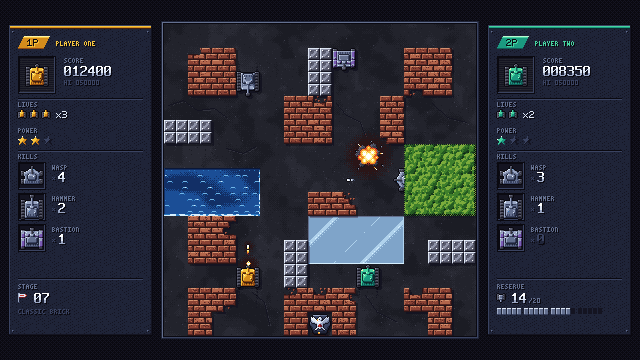
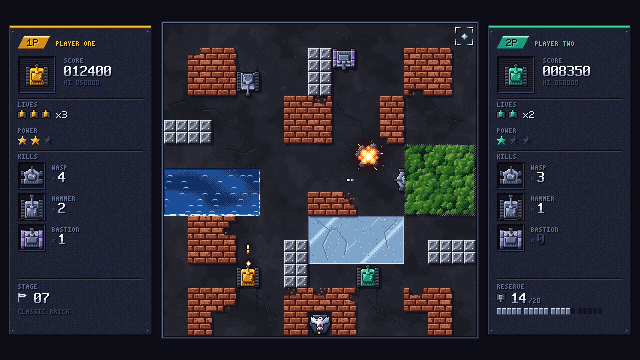
docs(art): G1 concept mockups A (24 px) and B (32 px), comparison and write-up
Art polish (layered forest canopy, frost and cracks on ice, irregular wave
crests, readable smoke, tread marks, spawn marker, raptor head on the HQ
eagle) and the final deterministic renders. docs/art/mockups/README.md
records files, SHA-256, palette, A vs B trade-offs (1080p/1440p/4K/Steam
Deck), an honest self-assessment and the recommendation (A, 24 px).
NOTICE.md lists the concept art as proprietary, AI-authored content.

diff --git a/docs/art/mockups/README.md b/docs/art/mockups/README.md
@@ -1,0 +1,164 @@
+# G1 visual direction spike: concept mockups
+
+**Status: concept art.** These files are not shipped, not final and not part of the `.love`. They exist so the owner can choose the pixel density and the art direction. G3 produces the final asset set (animation, all directions and states, shaders).
+
+Two static gameplay concepts show the same original mid-battle composition:
+
+| Concept | Tile | Internal canvas | Playfield (13 × 13) | At 1920 × 1080 |
+|---|---|---|---|---|
+| **A** | 24 px | 640 × 360 | 312 × 312 at (164, 24) | 3× integer, exact fill |
+| **B** | 32 px | 768 × 432 | 416 × 416 at (176, 8) | 2× integer (1536 × 864, letterboxed) or 2.5× sharp-bilinear fit |
+
+Both concepts show the following. Each 32 px sprite is authored separately and is not an upscale of the 24 px one.
+
+- Two original player tanks ("Lancer", gold P1 and teal P2).
+- Three enemy designs:
+  - "Wasp", a fast 4-wheel scout car.
+  - "Hammer", a power tank with a long gun.
+  - "Bastion", an armored 4-hit tank with armour skirts in the dedicated armour ramp.
+- An original HQ: a geometric eagle with raised V wings and a crimson chest shield, on a hexagonal slate plinth with a warm beacon.
+- Terrain:
+  - brick with chipped and shot-away cells and rubble
+  - riveted tread-plate steel
+  - water with shore shadow, foam and wave crests
+  - forest with a canopy over a half-hidden scout and a fair, see-through edge band
+  - ice with sheen, frost and cracks
+  - dark asphalt with cracks and tread marks
+- Effects and lighting:
+  - a P1 shell with a trail and a muzzle flash
+  - an enemy shell
+  - one explosion with restrained debris, sparks, smoke and a scorch decal
+  - an enemy spawn marker
+  - restrained palette-remap lighting: muzzle, shell and explosion glows and the HQ beacon
+  - drop shadows down-right of every raised object
+- An original side-panel HUD:
+  - P1 on the left and P2 on the right, each with a slanted badge, a portrait window, the score, lives, power stars and a kill tally by enemy type
+  - the stage flag and number on the left
+  - the enemy reserve on the right, as a segmented 20-cell gauge plus a counter (no icon grid and no grey right-hand column)
+
+## Regenerating
+
+```sh
+make mockups        # = love tools/mockup docs/art/mockups
+```
+
+The renderer is a headless LÖVE 11.5 app in `tools/mockup/` (`conf.lua`, `main.lua`, sprite sources under `art/`, helpers under `lib/`). The window, graphics and audio modules are disabled. Every pixel is computed on the CPU into palette-indexed buffers and encoded with `ImageData:encode("png")`, so no GPU or Xvfb is needed.
+
+**Output is byte-deterministic.** All maths that reaches a pixel is integer or exactly rational, including the sharp-bilinear fit, and noise comes from an integer hash. Running `make mockups` twice in the sandbox produced identical SHA-256 sums for every file.
+
+A zoomed review sheet of the tanks in all four directions can be produced with `love tools/mockup --sheet <out.png> [24|32]`.
+
+## Files
+
+| File | Size (px) | SHA-256 |
+|---|---|---|
[7 lines of base64/hex data omitted]
+
+`compare-1920x1080.png` crops the same region from the three real 1920 × 1080 outputs: tiles 2–7 × 8–12, which contain the P1 tank, the steel and brick corner and the HQ. The crops are shown **1:1 with the screen pixels**, so each one is exactly the physical size it would have on the same 1080p monitor:
+
+- A at 3× gives 1 tile = 72 px.
+- B at 2.5× fit gives 1 tile = 80 px, with soft edges.
+- B at 2× integer gives 1 tile = 64 px.
+
+The second row zooms a detail (the P1 tank, muzzle flash and shell) by 2× nearest so the fit softness is visible. The footer covers 1440p and Steam Deck.
+
+## Palette
+
+The master palette has 48 colours (the limit), shared by both concepts:
+
+| Group | Colours |
+|---|---|
+| Outline, asphalt and gunmetal | `void`, `ink`, `asph1`–`asph4`, `metal3`–`metal5` |
+| Enemy steel | `steel1`–`steel5`, `white` |
+| P1 | `gold1`–`gold5` |
+| P2 | `teal1`–`teal5` |
+| Brick | `brick1`–`brick5` (desaturated terracotta) |
+| Water | `water1`–`water5`, `foam` |
+| Foliage | `leaf1`–`leaf5` (yellow-leaning, kept away from P2 teal) |
+| Ice | `ice2`, `ice3` |
+| Fire / danger | `orange`, `red`, `crimson` |
+| Armour ramp | `violet1`, `violet2` |
+
+The ramps are hue-shifted: shadows drift cool or purple and highlights drift warm. Shadows and glows are palette remaps through hand-made LUTs (`lib/palette.lua`), so even "semi-transparent" shadows and light stay inside the palette. Faction hues are reserved as follows:
+
+- Gold, teal and cool steel appear only on tanks and HUD faction accents.
+- Terrain uses terracotta, blue, foliage green and pale ice.
+- Bullets have the highest value contrast: a white core and a dark outline.
+
+## How the art is made (Pipeline A)
+
+Every sprite is a hand-placed, text-indexed pixel map in `tools/mockup/art/`: tanks in `tanks24.lua` and `tanks32.lua`, the HQ in `hq.lua`, and icons and fonts in `hud.lua` and `lib/font.lua`. Terrain textures (`terrain.lua`, `forest.lua`) are hand-written per-pixel rules (bevels, bricks, rivets, wave stamps, leaf clusters) with deterministic noise. Cracks are hand-placed polylines.
+
+Tank characters encode a material plus either a tone or a **surface facing**, and the helpers in `lib/sprite.lua` work as follows:
+
+- Facings are resolved against a fixed top-left light **after** mirroring and rotation, so a tank turned to face down is still lit from the top-left.
+- Mirrored halves are authored once, with a west/east facing swap.
+- Rotation works in quarter turns on the grid.
+- A height map adds 1 px contact shadows down-right of the turret and gun.
+- A 1 px outline is added automatically against the background.
+- Asymmetric patches (hatches, glints) are allowed.
+
+No new dependencies were added. Blender was not used: a pre-rendered 3D look would conflict with the crisp hand-pixel style, and at 24–32 px it would still need full hand clean-up.
+
+## A vs B
+
+| | A (24 px, 640 × 360) | B (32 px, 768 × 432) |
+|---|---|---|
+| Pixels per tank frame | 576 | 1024 (1.8×) |
+| Detail per tile | Clean silhouettes; 4 px tracks, 10–12 px turrets, 2 px guns. Enough for readable plating, hatches, grilles and lamps. | 6 px tracks with four-step cleats, 4 px guns, louvres, exhausts, cupolas and rivets. Brick and steel get finer texture. |
+| 1280 × 720 | 2× exact fill | 1× + bars, or 1.67× fit (soft) |
+| **1920 × 1080** | **3× exact fill**, tile = 72 px | 2× + bars (playfield 832 px tall, 77 % of the height) or 2.5× fit (tile = 80 px, slightly soft) |
+| 2560 × 1440 | 4× exact fill, tile = 96 px | 3× = 2304 × 1296 + bars, tile = 96 px (crisp) |
+| 3840 × 2160 | 6× exact fill | 5× exact fill |
+| Steam Deck 1280 × 800 | 2× = 1280 × 720 + 40 px bars, crisp | 1× (tiny) or 1.67× fit (soft) |
+| Playfield share of screen height at 1080p | 87 % | 77 % (integer) / 96 % (fit) |
+| HUD side panels | 164 px each: badge, portrait, score, lives, power, kills, stage or reserve fit comfortably | 176 px each, plus more height |
+| Authoring cost | 12 × 24 half-grid per design. The player tank took 5 visual iterations. | 16 × 32 half-grid per design, about 1.8× the cells. Every animation frame, direction correction and hit state scales the same way. |
+
+**Readability.** Both concepts are readable at 1080p and above. At 1080p, A is the only option that is both crisp and full-screen. B's extra detail is real but subtle at 1080p, because each art pixel becomes smaller (2.5 or 2 screen px instead of 3). It pays off mainly at 1440p (3× crisp) and 4K (5× exact). On Steam Deck, A is clearly better.
+
+## Honest self-assessment
+
+These renders are sandbox evidence only: CPU-rendered on Linux and viewed as PNGs. They have not been checked on a real 1080p, 1440p or 4K monitor or on a Steam Deck. ART_DIRECTION §7.3 requires the owner to view them on a real display.
+
+**Where the art meets a premium bar:**
+
+- **Brick, steel and water:** chunky, crafted and cohesive. Brick damage and rubble read well.
+- **HUD:** clean, original and information-rich, with a consistent palette and our own iconography.
+- **Lighting and shadows:** restrained, palette-true and consistent with a top-left light.
+- **Readability:** faction colours, bullets and the spawn marker read instantly, and the forest edge stays fair.
+
+**Where it falls short:**
+
+- **Tanks.** They are clean and readable with correct lighting in all four directions, but their design language is somewhat generic and boxy. Turret forms, anti-aliasing and selective outlining are simpler than top-tier hand work. The 32 px set mostly refines the 24 px designs instead of adding new character.
+- **Eagle emblem.** It reads as a raptor emblem, but at 24 px it is busy and small. It is the hero element that most needs another design pass.
+- **Forest and explosion.** Both are rule-based composites. They work for a static frame, but G3 needs hand-animated explosion frames and a less regular canopy.
+- **Ice.** It is clean but a little "glass pane".
+
+**Pipeline B.** Pipeline A is strong enough for tiles, UI and effects. For the hero sprites (4 tank designs × 4 directions × 2–3 track frames, plus the HQ intact and destroyed), I recommend that the owner seriously considers commissioning a human pixel artist at G3. Use these mockups as the style and palette brief, and decide after the G3 slice as planned.
+
+## Recommendation
+
+**Choose concept A (24 px tiles, 640 × 360).** The reasons:
+
+- It scales exactly on 720p, 1080p, 1440p, 4K and Steam Deck (2×).
+- It fills a 1080p screen crisply. 1080p is the most common Steam resolution, and there B forces a choice between softness and a smaller letterboxed image.
+- It costs about 44 % fewer pixels per sprite frame across the whole G3 asset set.
+- This spike shows that 24 px is enough for premium-looking, readable hero sprites.
+
+The richer B ideas (four-step cleats, louvres, wider guns) can be condensed into the 24 px set where they help.
+
+Choose B only if the target audience is mainly 1440p or 4K and the owner accepts letterboxing or soft fit at 1080p and on Steam Deck.
+
+## Provenance
+
+- **Author:** an AI agent (Claude, Anthropic), authored as code-defined pixel art in this repository (`tools/mockup/`). It is not traced or derived from any other game. No reference sprites, eagle art, brick or steel patterns, HUD layouts, logos or palettes were used.
+- **Status:** original, proprietary game content (see `NOTICE.md`). It is concept art only and is never shipped.
+- **Disclosure:** AI-generated content must be disclosed in the Steam AI-content survey (tracked in G9).
+- **Fonts:** both bitmap fonts (5 × 7, 3 × 5, plus the bold 7 × 10 score digits) are original and defined in code.

diff --git a/NOTICE.md b/NOTICE.md
@@ -14,6 +14,7 @@ The following are **not** covered by the PolyForm license. They may not be copie
 
 - everything under `assets/` (sprites, tilesets, shaders, audio, music, fonts created for the game)
 - everything under `levels/`
+- the G1 concept art in `docs/art/mockups/` and the pixel-art definitions it is rendered from (`tools/mockup/art/`): authored by an AI agent (Claude) as code-defined pixel art, never shipped (provenance in `docs/art/mockups/README.md`)
 - the "Eagle Defense" name, logo and visual identity
 
 Third-party assets inside `assets/` keep their own licenses, which are recorded in `assets/PROVENANCE.md` and `assets/manifest.lua`.
